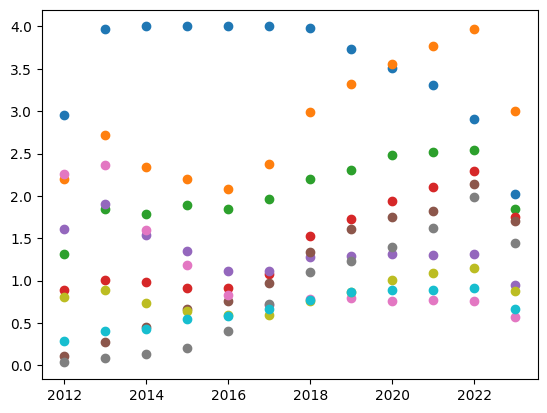
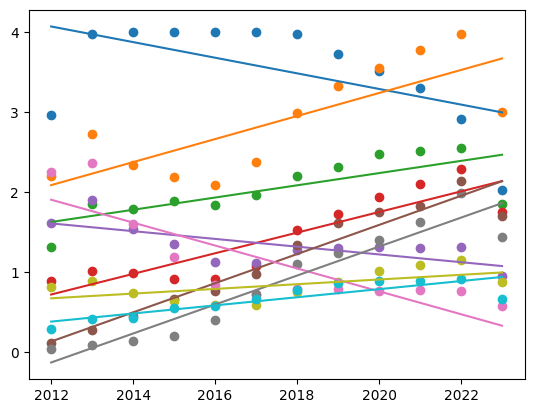
added line of best fit

diff --git a/scripts/question3.py b/scripts/question3.py
@@ -27,7 +27,7 @@ sorted_data = sorted_data.sort_values(by = "norm_use", ascending=False)
 top_ten = sorted_data[:10]
 
 print(top_ten)
-x_values = [2012, 2013, 2014, 2015, 2016, 2017, 2018, 2019, 2020, 2021, 2022, 2023]
+x_values = np.array([2012, 2013, 2014, 2015, 2016, 2017, 2018, 2019, 2020, 2021, 2022, 2023])
 for lang in top_ten.index:
     filtered = df.query('name == @lang')
     y_values = []
@@ -39,5 +39,11 @@ for lang in top_ten.index:
             if (year == compare):
                 y = y + row["norm_use"]
         y_values.append(y)
+    y_values = np.array(y_values)
+    a, b = np.polyfit(x_values, y_values, 1)
+    plt.plot(x_values, a * x_values + b)
     plt.scatter(x_values, y_values)
+    
+
+
 plt.savefig(OUTPUT.joinpath("scatterplot.png"), bbox_inches="tight", transparent = True)
